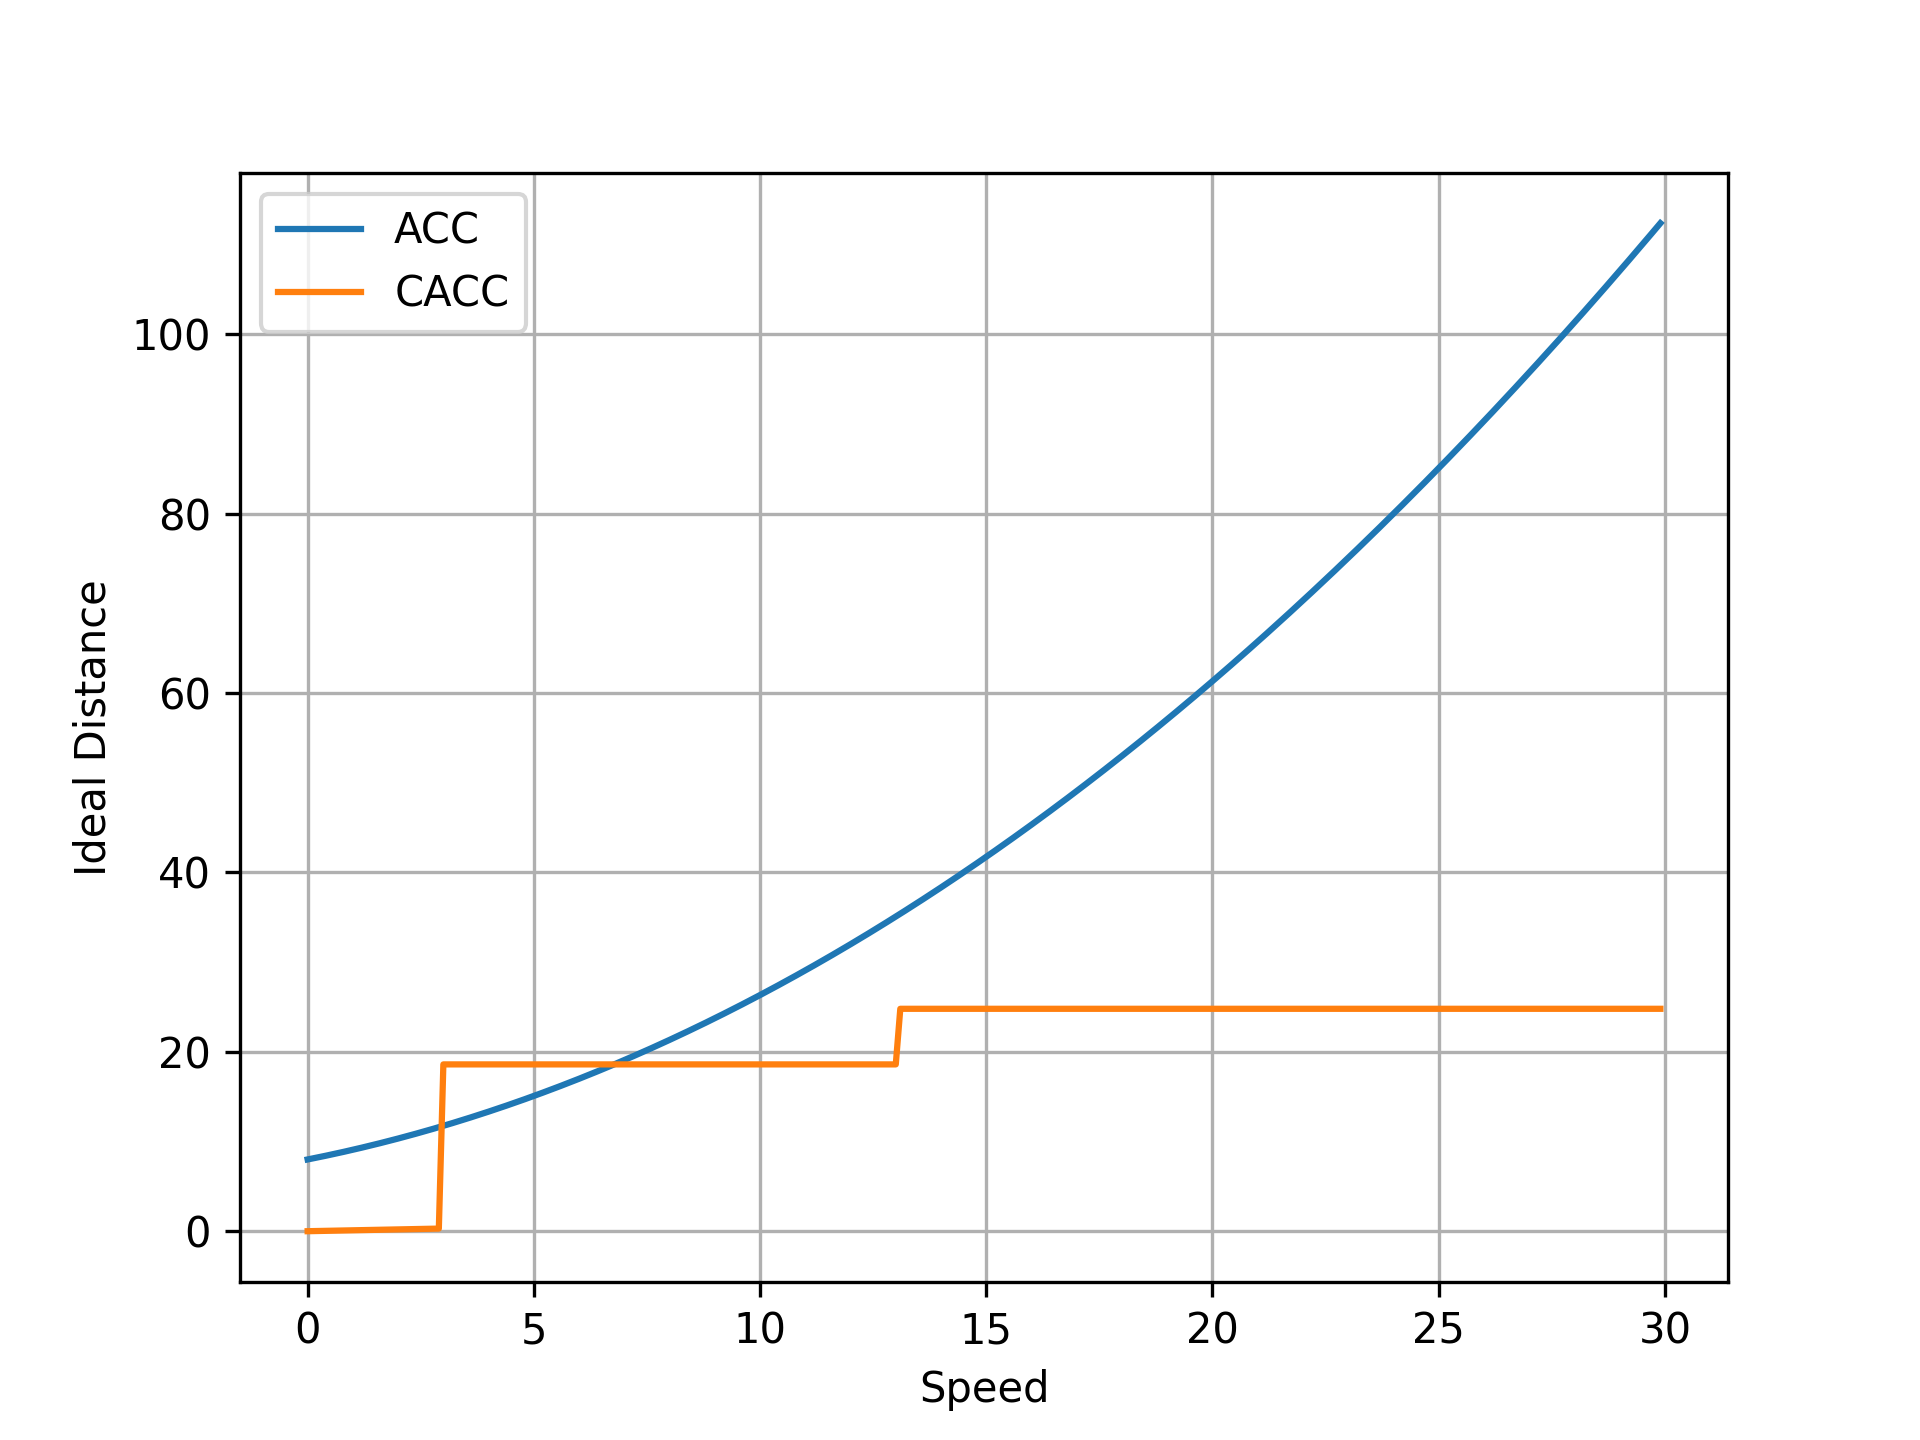
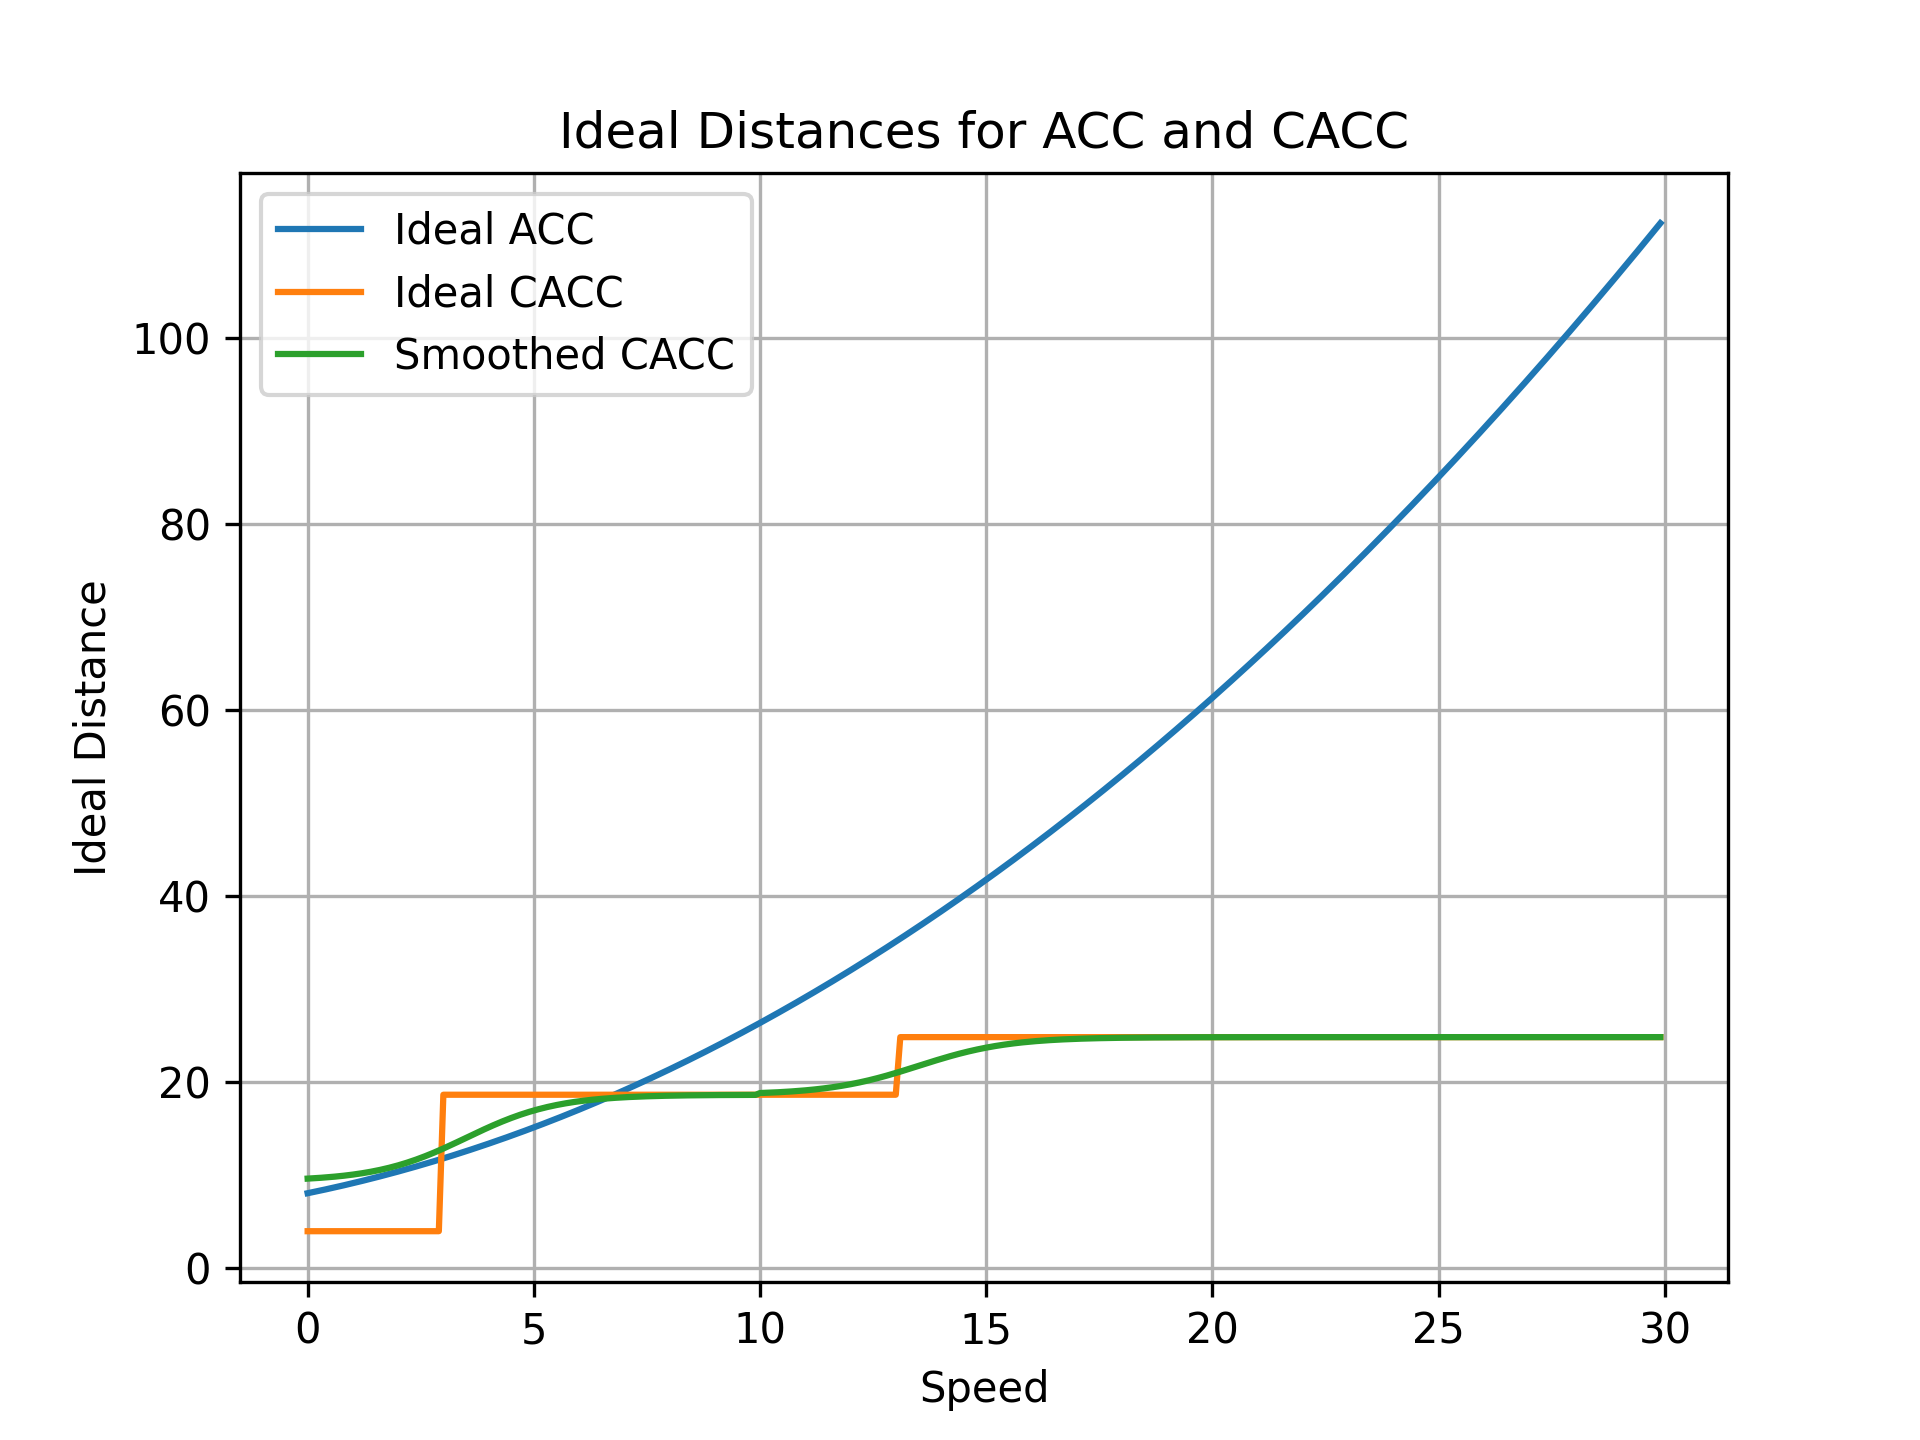
dev-add data analysis

diff --git a/data_processing/metrics_throttle.py b/data_processing/metrics_throttle.py
@@ -1,0 +1,109 @@
+import matplotlib.pyplot as plt
+import numpy as np
+
+path_acc = [
+    "acc\\v0.csv",
+    "acc\\v1.csv",
+    "acc\\v2.csv",
+]
+
+path_cacc = [
+    "v2\\v0.csv",
+    "v2\\v1.csv",
+    "v2\\v2.csv",
+]
+
+def computeIdealDistanceCACC(speed):
+  vehicleLen = 15.5
+
+  if (speed < 10):
+    ret = 0.6 * vehicleLen + 0.6 * vehicleLen /(1 + np.exp(-((speed - 3.5))))
+  else:
+    ret = 1.2 * vehicleLen + 0.4 * vehicleLen /(1 + np.exp(-(speed - 13.5)))
+    
+  return ret
+
+def computeIdealDistanceACC(speed):
+    return 3 * (speed / 6 + 1) ** 2 + 5
+
+acc_range = [69, 134]
+cacc_range = [23, 132]
+
+acc_data = []
+for path in path_acc:
+    acc_data.append(np.loadtxt(path, delimiter=",", dtype=float))
+cacc_data = []
+for path in path_cacc:
+    cacc_data.append(np.loadtxt(path, delimiter=",", dtype=float))
+
+acc_diff_v1 =[acc_data[1][i, 1] for i in range(acc_range[0], acc_range[1])] - np.array([computeIdealDistanceACC(acc_data[1][i, 0]) for i in range(acc_range[0], acc_range[1])])
+acc_diff_v2 = [acc_data[2][i, 1] for i in range(acc_range[0], acc_range[1])] - np.array([computeIdealDistanceACC(acc_data[2][i, 0]) for i in range(acc_range[0], acc_range[1])])
+print("acc max diff v1: ", np.max(np.abs(acc_diff_v1)))
+print("acc max diff v2: ", np.max(np.abs(acc_diff_v2)))
+
+print("acc avg diff v1: ", np.mean(np.abs(acc_diff_v1)))
+print("acc avg diff v2: ", np.mean(np.abs(acc_diff_v2)))
+
+cacc_diff_v1 = [cacc_data[1][i, 1] for i in range(cacc_range[0], cacc_range[1])] - np.array([computeIdealDistanceCACC(cacc_data[0][i, 0]) for i in range(cacc_range[0], cacc_range[1])])
+cacc_diff_v2 = [cacc_data[2][i, 1] for i in range(cacc_range[0], cacc_range[1])] - np.array([computeIdealDistanceCACC(cacc_data[0][i, 0]) for i in range(cacc_range[0], cacc_range[1])])
+print("cacc max diff v1: ", np.max(np.abs(cacc_diff_v1)))
+print("cacc max diff v2: ", np.max(np.abs(cacc_diff_v2)))
+
+print("cacc avg diff v1: ", np.mean(np.abs(cacc_diff_v1)))
+print("cacc avg diff v2: ", np.mean(np.abs(cacc_diff_v2)))
+
+
+
+acc_x = np.arange(0, acc_range[1] - acc_range[0], 1)
+cacc_x = np.arange(0, cacc_range[1] - cacc_range[0], 1)
+plt.plot(acc_x, [acc_data[1][i, 1] for i in range(acc_range[0], acc_range[1])], label="v1 ACC")
+plt.plot(acc_x, [computeIdealDistanceACC(acc_data[1][i, 0]) for i in range(acc_range[0], acc_range[1])], label="v1 ACC ideal")
+plt.plot(cacc_x, [cacc_data[1][i, 1] for i in range(cacc_range[0], cacc_range[1])], label="v1 CACC")
+plt.plot(cacc_x, [computeIdealDistanceCACC(cacc_data[0][i, 0]) for i in range(cacc_range[0], cacc_range[1])], label="v1 CACC ideal")
+plt.plot(acc_x, [acc_data[2][i, 1] for i in range(acc_range[0], acc_range[1])], label="v2 ACC")
+plt.plot(acc_x, [computeIdealDistanceACC(acc_data[2][i, 0]) for i in range(acc_range[0], acc_range[1])], label="v2 ACC ideal")
+plt.plot(cacc_x, [cacc_data[2][i, 1] for i in range(cacc_range[0], cacc_range[1])], label="v2 CACC")
+plt.plot(cacc_x, [computeIdealDistanceCACC(cacc_data[0][i, 0]) for i in range(cacc_range[0], cacc_range[1])], label="v2 CACC ideal")
+plt.legend()
+plt.title("Comparison of ACC and CACC: leading vehicle at 0.75 m/s^2")
+plt.xlabel("Time")
+plt.ylabel("Distance")
+plt.grid()
+plt.savefig("metrics_throttle.png", dpi=300)
+plt.clf()
+
+acc_x = np.arange(0, acc_range[1] - acc_range[0], 1)
+cacc_x = np.arange(0, cacc_range[1] - cacc_range[0], 1)
+plt.plot(acc_x, acc_diff_v1, label="v1 ACC diff")
+plt.plot(acc_x, acc_diff_v2, label="v2 ACC diff")
+plt.plot(cacc_x, cacc_diff_v1, label="v1 CACC diff")
+plt.plot(cacc_x, cacc_diff_v2, label="v2 CACC diff")
+plt.legend()
+plt.title("Comparison of ACC and CACC: leading vehicle at 0.75 m/s^2")
+plt.xlabel("Time")
+plt.ylabel("Distance difference")
+plt.grid()
+plt.savefig("metrics_throttle_diff.png", dpi=300)
+plt.clf()
+
+acc_x = np.arange(0, acc_range[1] - acc_range[0], 1)
+cacc_x = np.arange(0, cacc_range[1] - cacc_range[0], 1)
+plt.plot(acc_x, [acc_data[0][i, 2] for i in range(acc_range[0], acc_range[1])], label="acc leading throttle")
+plt.plot(cacc_x, [cacc_data[0][i, 2] for i in range(cacc_range[0], cacc_range[1])], label="cacc leading throttle")
+plt.legend()
+plt.title("Leading vehicle at 0.75 m/s^2")
+plt.xlabel("Time")
+plt.ylabel("Throttle")
+plt.grid()
+plt.savefig("metrics_throttle_leading_throttle.png", dpi=300)
+plt.clf()
+
+plt.plot(acc_x, [acc_data[0][i, 0] for i in range(acc_range[0], acc_range[1])], label="acc leading speed")
+plt.plot(cacc_x, [cacc_data[0][i, 0] for i in range(cacc_range[0], cacc_range[1])], label="cacc leading speed")
+plt.legend()
+plt.title("Leading vehicle at 0.75 m/s^2")
+plt.xlabel("Time")
+plt.ylabel("Speed")
+plt.grid()
+plt.savefig("metrics_throttle_leading_speed.png", dpi=300)
+plt.clf()

diff --git a/idealDistance.py b/idealDistance.py
@@ -44,11 +44,27 @@ speed = np.arange(0, 30, 0.1)
 idealDistanceCACC = np.array([computeIdealDistanceCACC(s) for s in speed])
 prevIdealDistanceACC = np.array([prevComputeIdealDistanceCACC(s) for s in speed])
 idealDistanceACC = np.array([computeIdealDistanceACC(s) for s in speed])
-plt.plot(speed, idealDistanceACC, label="ACC")
-plt.plot(speed, idealDistanceCACC, label="CACC")
-plt.plot(speed, prevIdealDistanceACC, label="prev CACC")
+plt.plot(speed, idealDistanceACC, label="Ideal ACC")
+plt.plot(speed, prevIdealDistanceACC, label="Ideal CACC")
+plt.plot(speed, idealDistanceCACC, label="Smoothed CACC")
+
+plt.title("Ideal Distances for ACC and CACC")
 plt.legend()
 plt.xlabel("Speed")
 plt.ylabel("Ideal Distance")
 plt.grid()
 plt.savefig("idealDistance.png", dpi=300)
+
+def computeSafeDistanceACC(speed):
+    return 3 * (speed / 6 + 1) ** 2
+safeDistanceACC = np.array([computeSafeDistanceACC(s) for s in speed])
+plt.clf()
+plt.plot(speed, safeDistanceACC, label="ACC Safe Boundary")
+plt.plot(speed, [3.65 * 0.5 * 0.5 for i in range(len(speed))], label="CACC Safe Boundary")
+
+plt.title("Safe Boundary for ACC and CACC")
+plt.legend()
+plt.xlabel("Speed")
+plt.ylabel("Safe Boundary")
+plt.grid()
+plt.savefig("safeBound.png", dpi=300)
